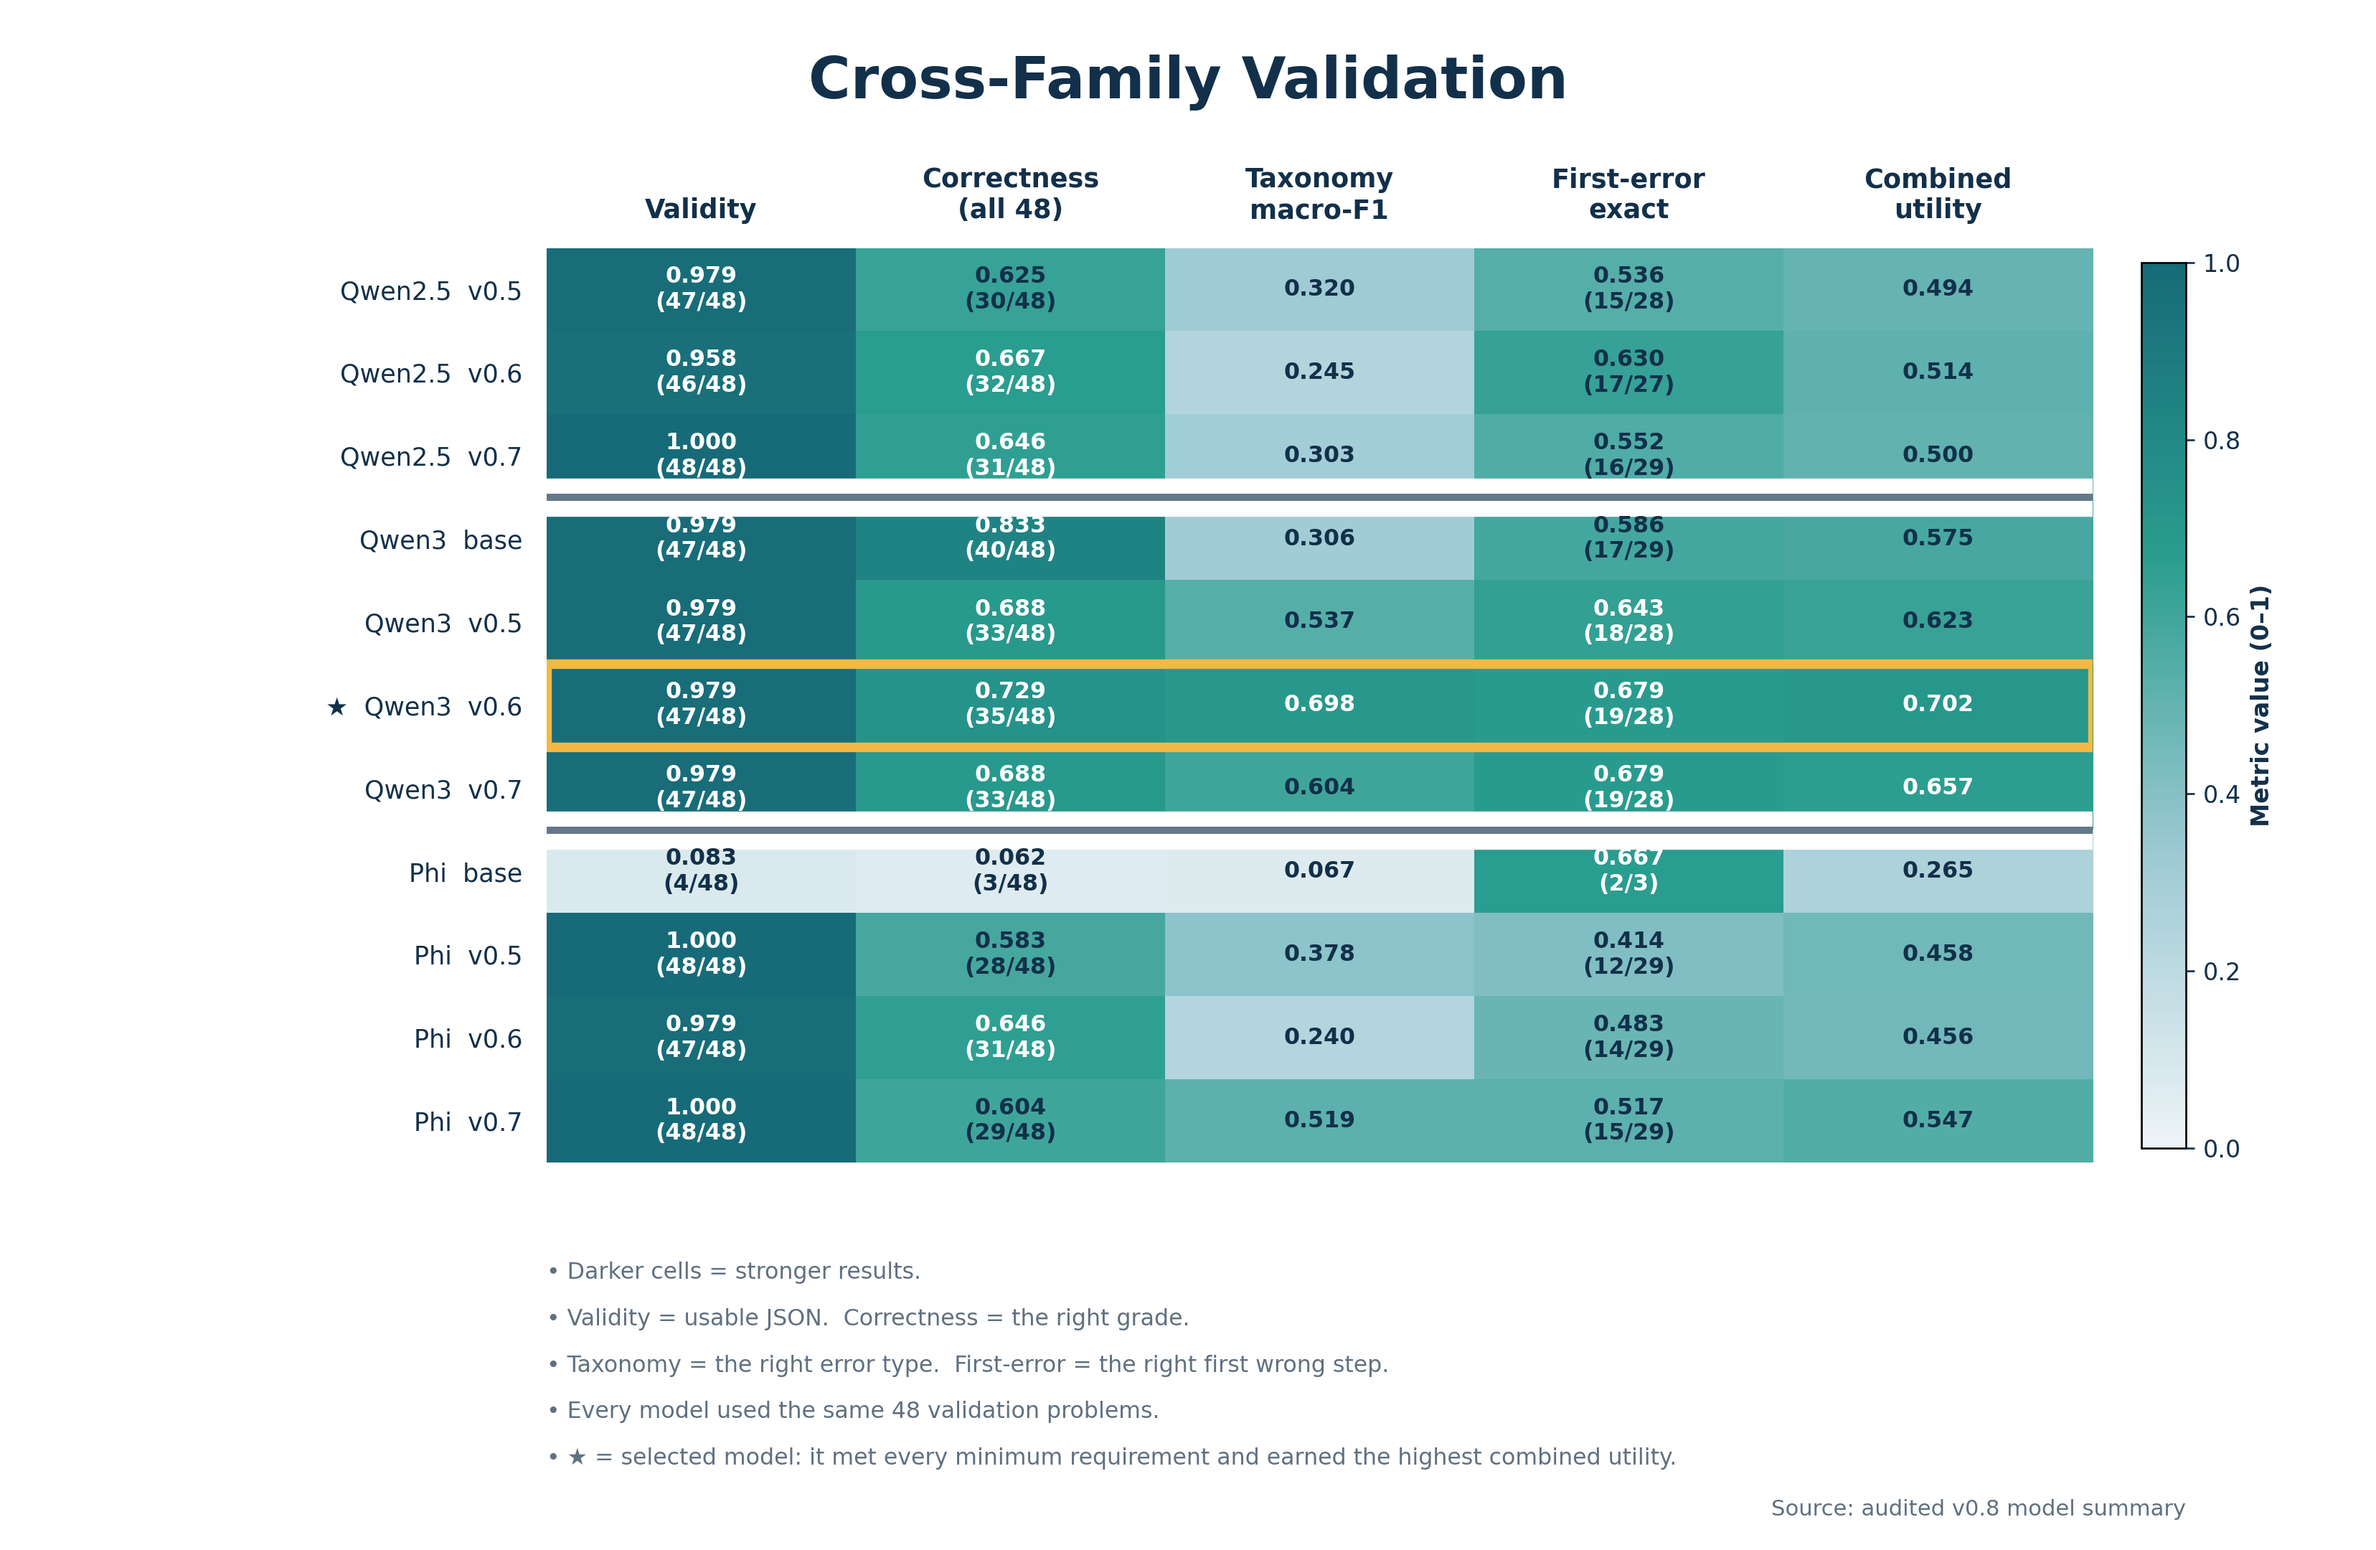
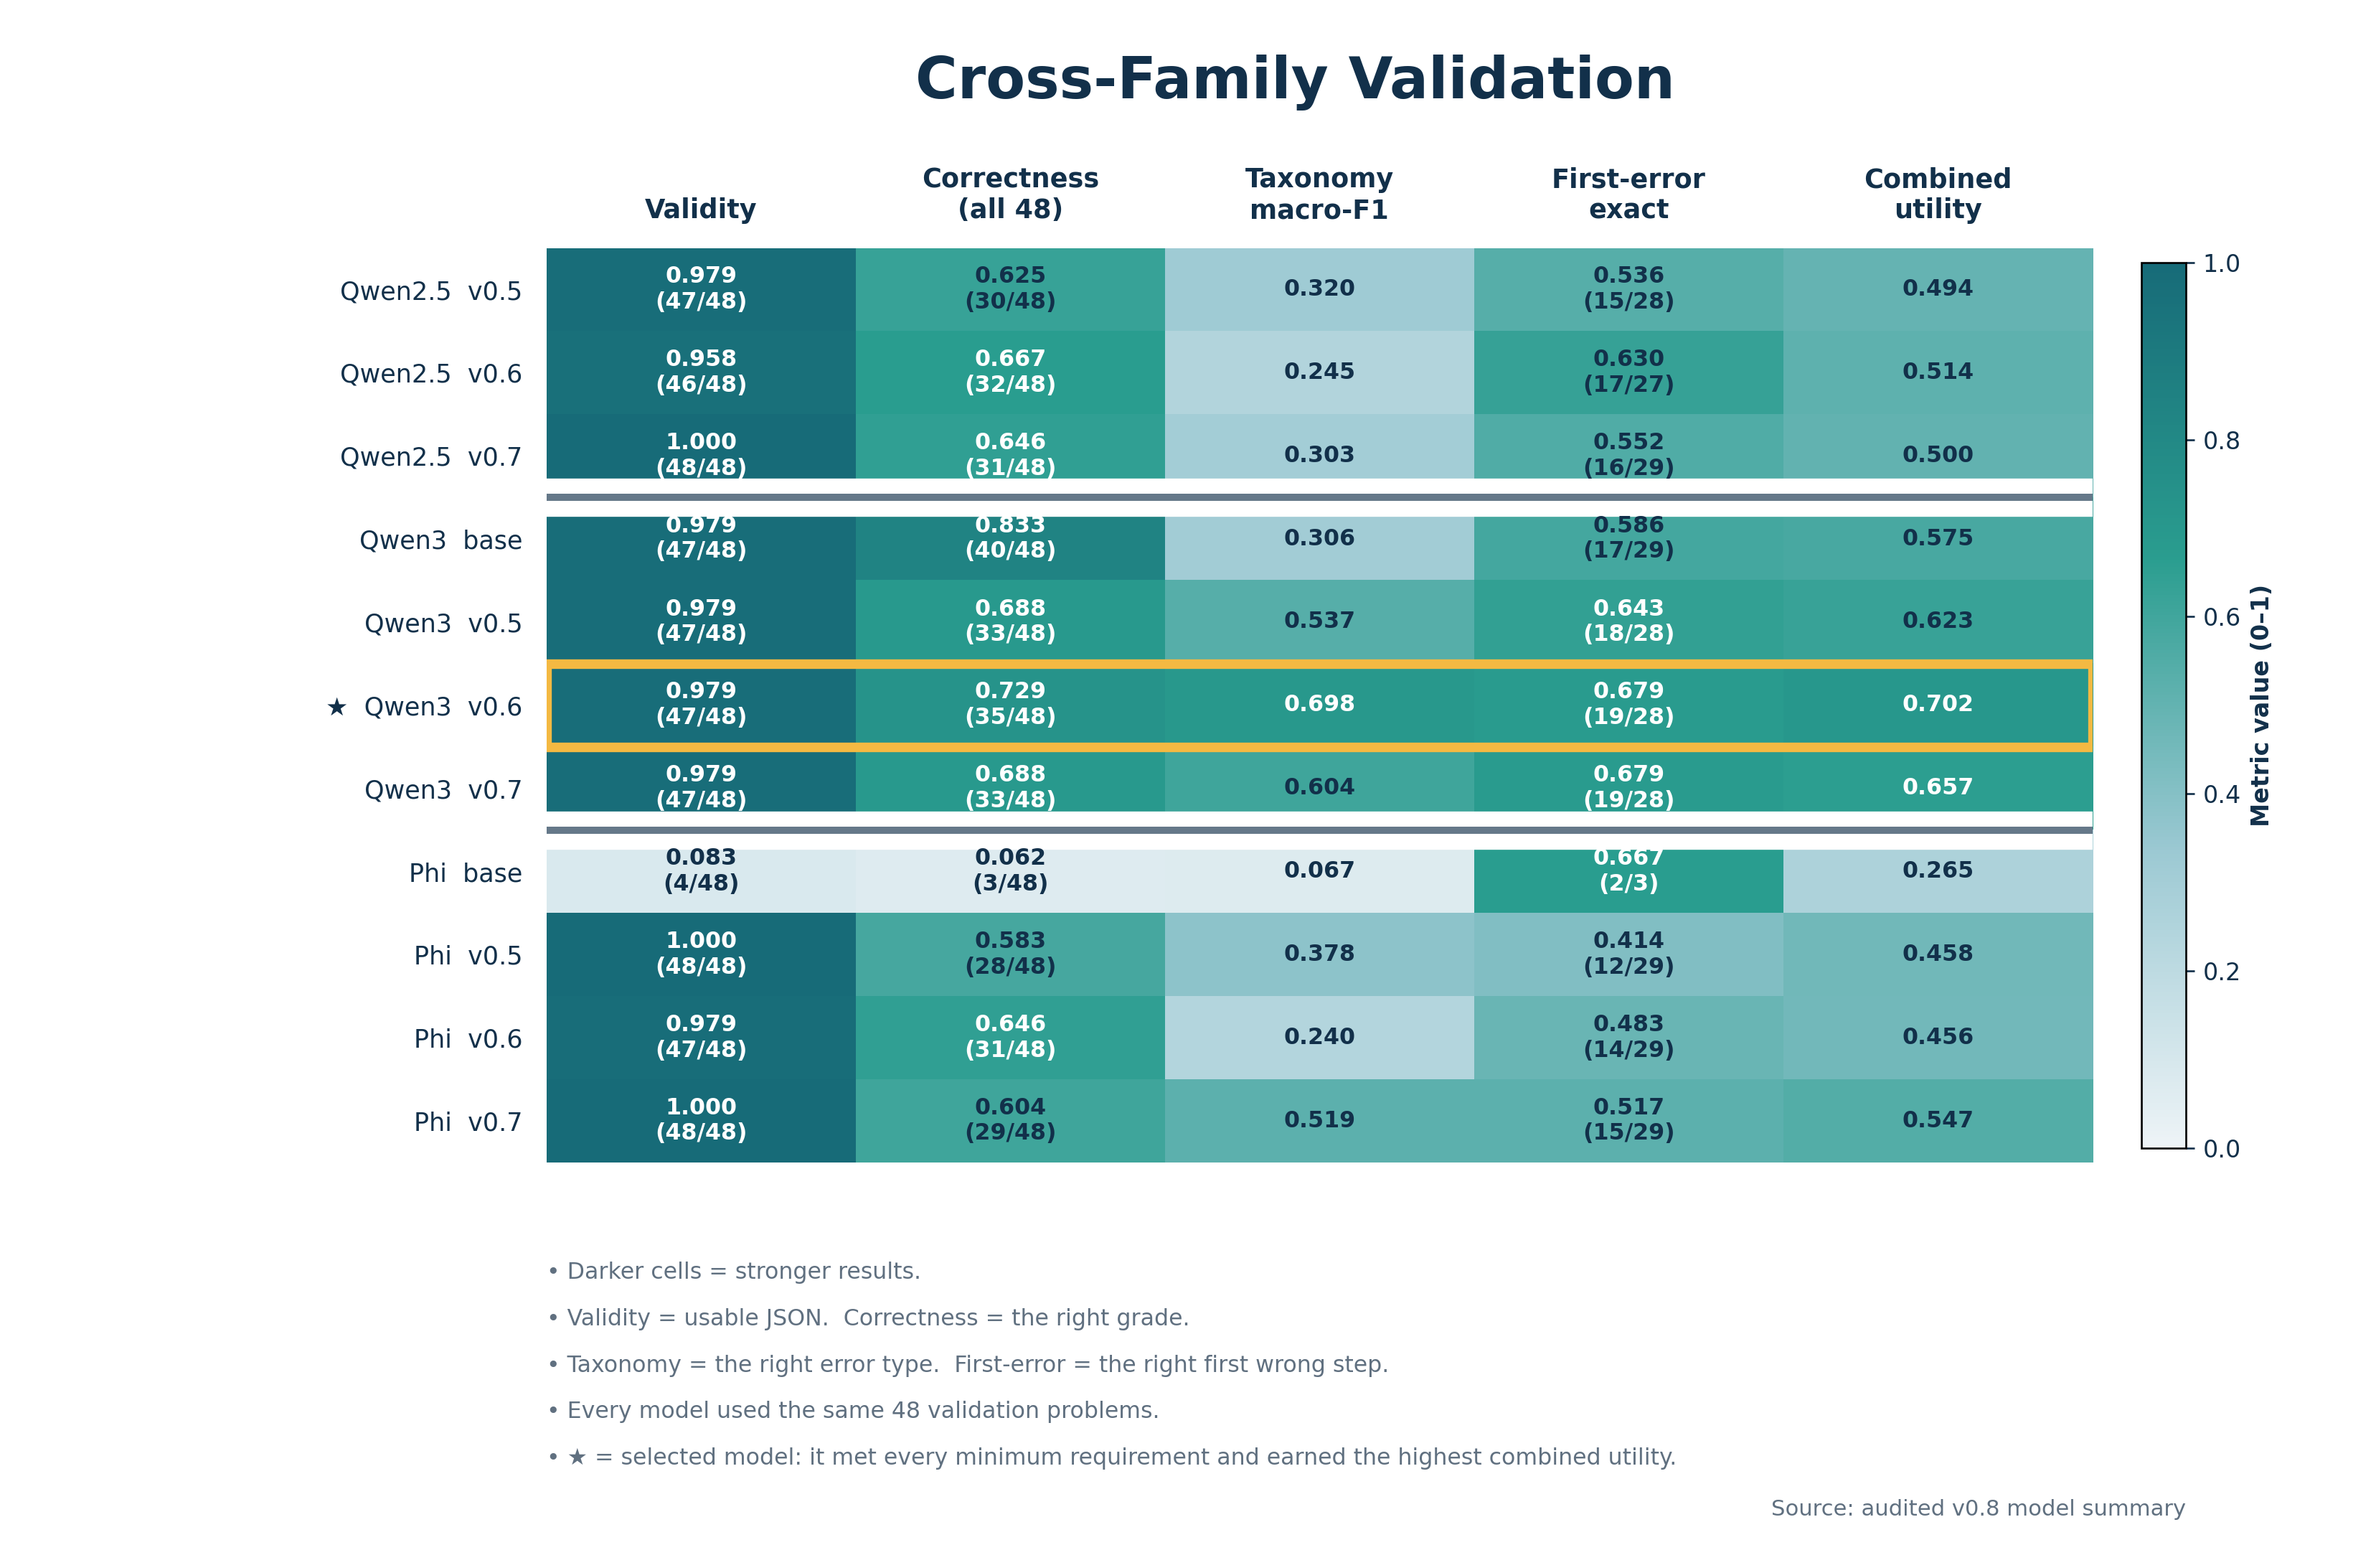
Visually center poster chart headings

Changed region(s): [[0.3421, 0.031, 0.7153, 0.062]]

diff --git a/scripts/create_poster_assets.py b/scripts/create_poster_assets.py
@@ -152,7 +152,9 @@ def make_cross_model_figure() -> None:
         ax.axhline(boundary, color=NAVY, linewidth=3.0, alpha=0.65)
     ax.add_patch(Rectangle((-0.5, winner_index - 0.5), len(metrics), 1, fill=False, edgecolor="#F4B942", linewidth=4))
 
-    fig.suptitle("Cross-Family Validation", x=0.5, y=0.965, ha="center", fontsize=24, fontweight="bold", color=NAVY)
+    # Center over the complete visual composition (row labels through colorbar),
+    # rather than the raw canvas, whose asymmetric margins make 0.5 look left-shifted.
+    fig.suptitle("Cross-Family Validation", x=0.545, y=0.965, ha="center", fontsize=24, fontweight="bold", color=NAVY)
     footer_lines = [
         "• Darker cells = stronger results.",
         "• Validity = usable JSON.  Correctness = the right grade.",
@@ -219,7 +221,8 @@ def make_v01_v07_figure() -> None:
     ax2.tick_params(axis="x", pad=10, length=0)
     ax2.set_xlabel("Experiment version and main training change", fontsize=11, fontweight="bold", labelpad=22)
 
-    fig.suptitle("Fine-Tuning Progression", x=0.5, y=0.965, ha="center", fontsize=24, fontweight="bold", color=NAVY)
+    # The y-axis labels make the chart body asymmetric within the canvas.
+    fig.suptitle("Fine-Tuning Progression", x=0.525, y=0.965, ha="center", fontsize=24, fontweight="bold", color=NAVY)
     footer_lines = [
         "• Validity = the model returned usable JSON.",
         "• Correctness = the model assigned the right grade.",
